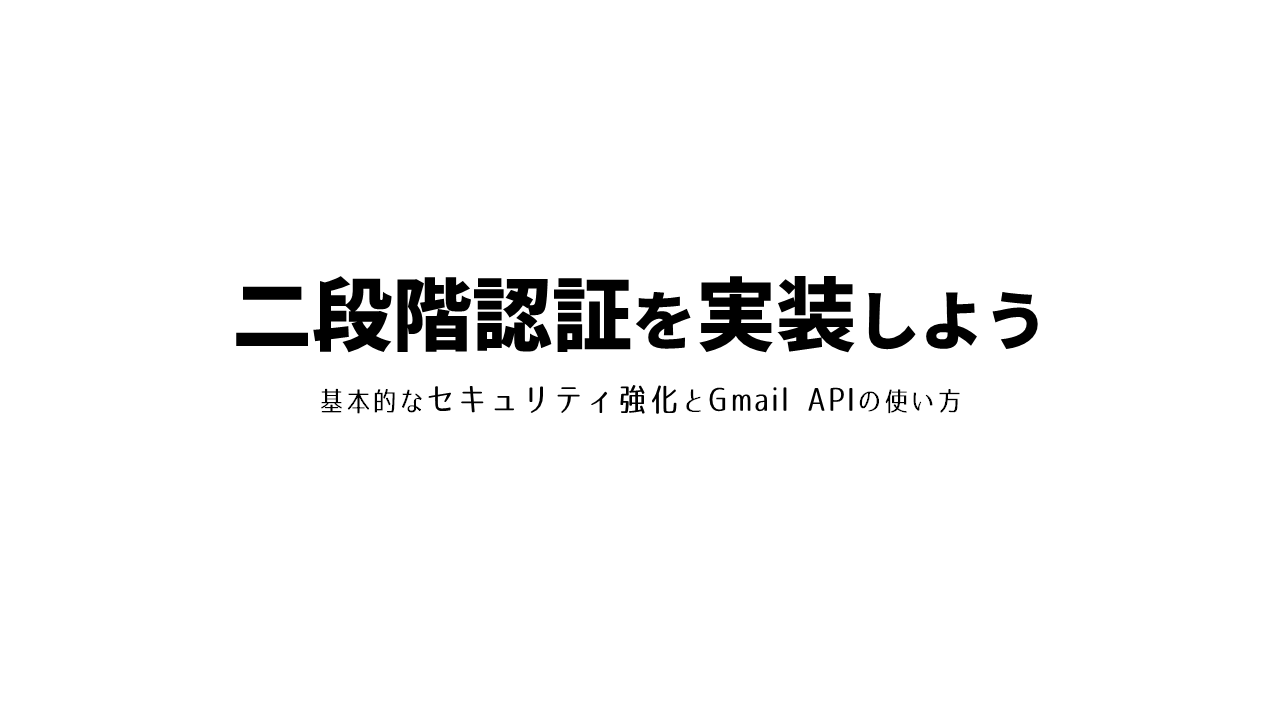
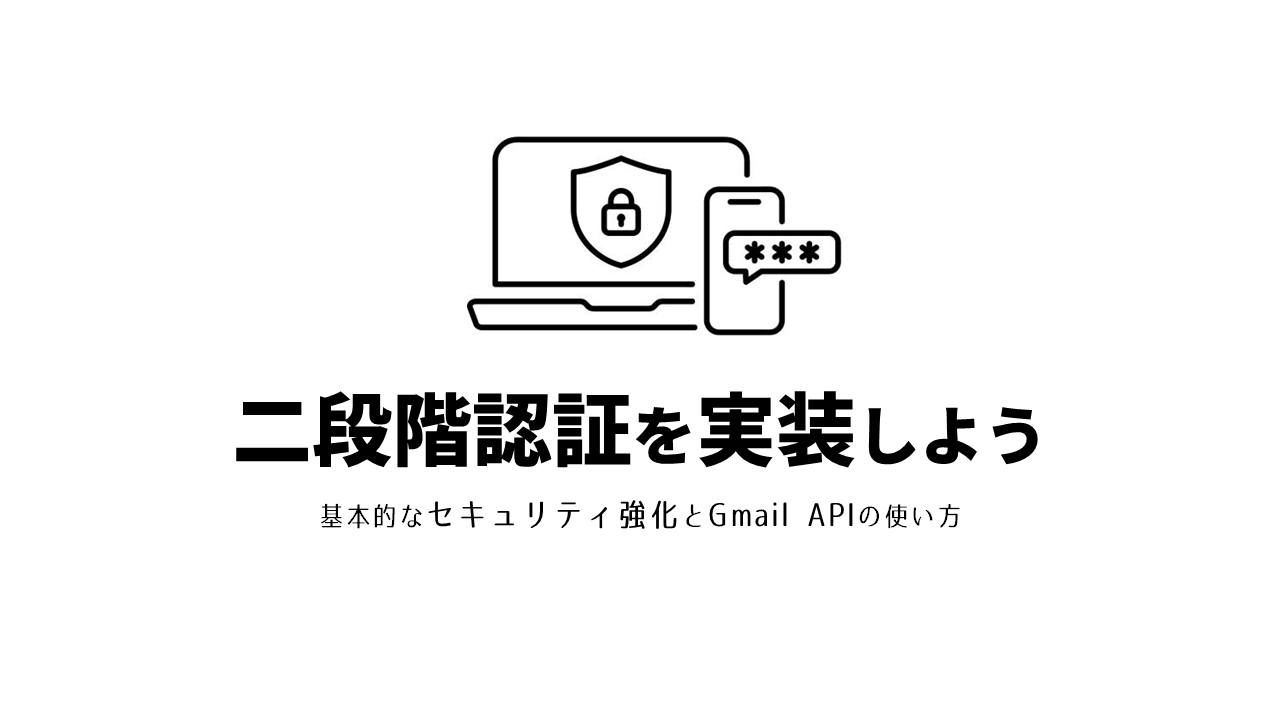
bbb

Changed region(s): [[0.1875, 0.1833, 0.8125, 0.4889], [0.1875, 0.5194, 0.8125, 0.6722], [0.25, 0.7028, 0.75, 0.7333]]

diff --git a/css/style-light.css b/css/style-light.css
@@ -10,7 +10,7 @@
 }
 @font-face {
   font-family: 'CLMv3'; /* 任意のフォント名 */
-  src: url('https://tanelog.yamatcha.net/font/Corporate-Logo-Medium-ver3.otf') format('opentype'); /* ファイルのパスと形式 */
+  src: url('/../font/Corporate-Logo-Medium-ver3.otf') format('opentype'); /* ファイルのパスと形式 */
   font-weight: normal;
   font-style: normal;
   font-display: swap; /* 読み込み中の代替フォント表示を指定 */
